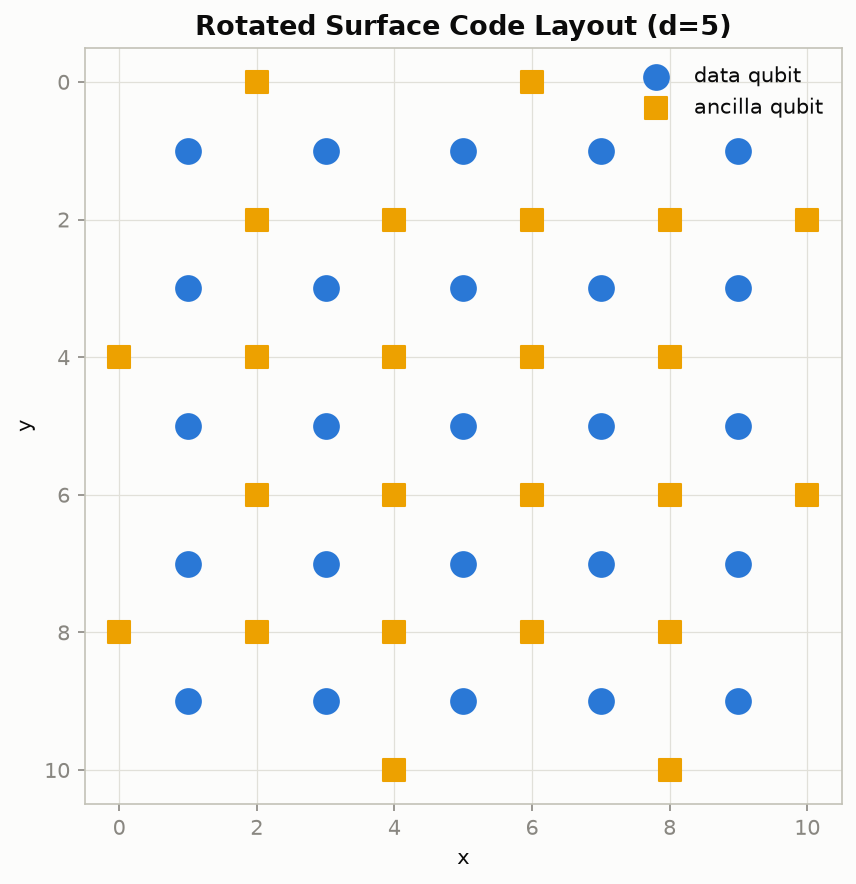
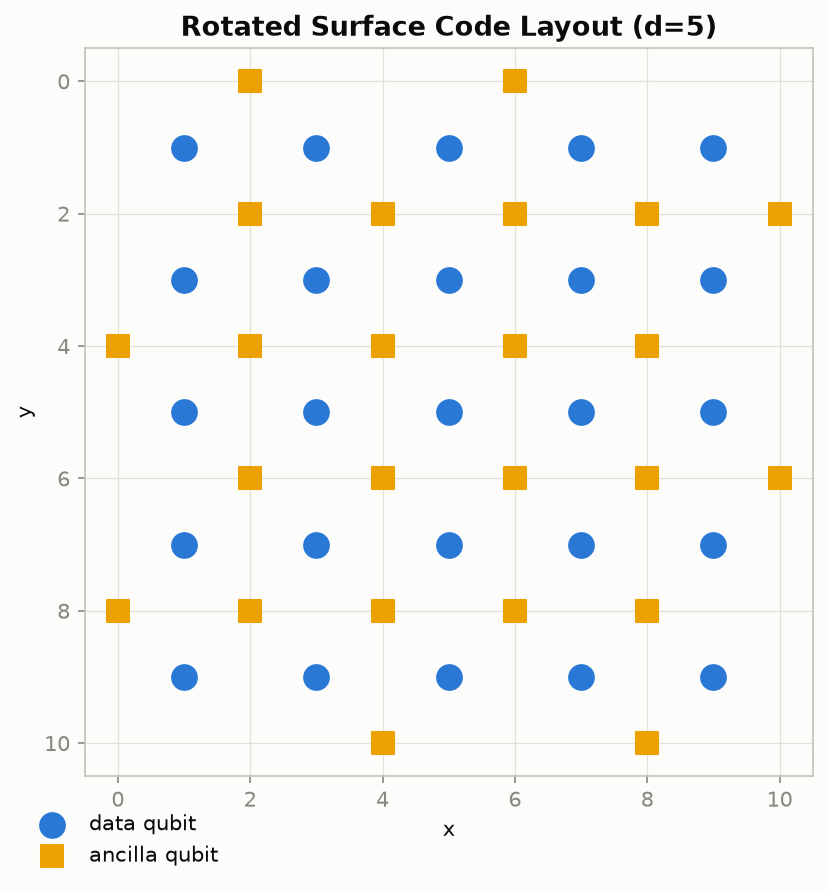
Fixed plot tick alignment, legend placement, and apparent threshold calculation. Adjusted figure sizes in README.

diff --git a/qecsim/viz_surface_code.py b/qecsim/viz_surface_code.py
@@ -1,7 +1,5 @@
-"""Visualizations for the rotated surface code threshold study.
-
-Uses a fixed colorblind-safe palette (blue -> aqua -> yellow) plus
-distinct marker shapes per series.
+"""
+Visualizations for the rotated surface code threshold study.
 """
 
 from __future__ import annotations
@@ -12,6 +10,9 @@ import matplotlib
 
 matplotlib.use("Agg")
 import matplotlib.pyplot as plt
+import math
+
+from matplotlib.ticker import FixedLocator, FuncFormatter, LogLocator, NullFormatter, NullLocator
 
 from qecsim import surface_code
 
@@ -26,11 +27,30 @@ _TEXT_SECONDARY = "#52514e"
 _TEXT_MUTED = "#898781"
 
 
+def _midpoint_subs(major_subs: tuple[float, ...]) -> tuple[float, ...]:
+    """Geometric midpoint between each pair of consecutive major sub-ticks,
+    used as minor tick locations
+    """
+    subs = list(major_subs) + [major_subs[0] * 10]
+    return tuple(math.sqrt(a * b) for a, b in zip(subs, subs[1:]))
+
+
+def _log_tick_label(x: float, _pos=None) -> str:
+    if x <= 0:
+        return ""
+    exponent = math.floor(math.log10(x) + 1e-9)
+    mantissa = round(x / 10**exponent, 1)
+    if abs(mantissa - round(mantissa)) < 1e-9:
+        mantissa_str = f"{round(mantissa):d}"
+    else:
+        mantissa_str = f"{mantissa:.1f}"
+    if mantissa_str == "1":
+        return f"$10^{{{exponent}}}$"
+    return f"${mantissa_str}\\times10^{{{exponent}}}$"
+
+
 def plot_threshold(results: list[dict], save_path: str) -> None:
-    """Plot the headline threshold figure: one line per code distance,
-    physical error rate on a log x-axis, per-round logical error rate on a
-    log y-axis. If the curves visibly cross, that marks the approximate
-    circuit-level threshold; annotated only when the data shows one cleanly.
+    """Plot the headline threshold figure
     """
     by_distance: dict[int, list[dict]] = defaultdict(list)
     for row in results:
@@ -66,6 +86,16 @@ def plot_threshold(results: list[dict], save_path: str) -> None:
 
     ax.set_xscale("log")
     ax.set_yscale("log")
+
+    # Tick marks sit on the actual sampled p values (a log-scale FixedLocator)
+    # so they line up with the data, rather than an abstract evenly-spaced
+    # scheme that wouldn't match where the markers actually are.
+    y_major_subs = (1.0,)
+    ax.xaxis.set_major_locator(FixedLocator(sorted({r["p"] for r in results})))
+    ax.xaxis.set_major_formatter(FuncFormatter(_log_tick_label))
+    ax.xaxis.set_minor_locator(NullLocator())
+    ax.yaxis.set_minor_locator(LogLocator(base=10.0, subs=_midpoint_subs(y_major_subs)))
+    ax.yaxis.set_minor_formatter(NullFormatter())
     ax.set_xlabel("Physical error rate, $p$", color=_TEXT_PRIMARY, fontsize=11)
     ax.set_ylabel(
         "Logical error rate per round", color=_TEXT_PRIMARY, fontsize=11
@@ -79,12 +109,16 @@ def plot_threshold(results: list[dict], save_path: str) -> None:
     )
 
     ax.grid(True, which="major", color=_GRIDLINE, linewidth=0.8, zorder=0)
-    ax.grid(True, which="minor", color=_GRIDLINE, linewidth=0.4, alpha=0.6, zorder=0)
+    ax.grid(True, which="minor", color=_GRIDLINE, linewidth=0.4, zorder=0)
     for spine in ("top", "right"):
         ax.spines[spine].set_visible(False)
     for spine in ("left", "bottom"):
         ax.spines[spine].set_color(_AXIS)
     ax.tick_params(colors=_TEXT_MUTED, labelsize=9)
+    # The sampled p values bunch up at the high end (e.g. 0.013/0.016/0.02),
+    # so horizontal labels there collide; angle them to keep every gridline
+    # labeled and readable.
+    plt.setp(ax.get_xticklabels(), rotation=40, ha="right", rotation_mode="anchor")
 
     legend = ax.legend(
         frameon=False, loc="lower right", fontsize=10, labelcolor=_TEXT_PRIMARY
@@ -95,14 +129,16 @@ def plot_threshold(results: list[dict], save_path: str) -> None:
     crossing_p = _find_crossing(by_distance, distances)
     if crossing_p is not None:
         ax.axvline(crossing_p, color=_TEXT_MUTED, linewidth=1, linestyle="--", zorder=1)
+        y_lo, y_hi = ax.get_ylim()
+        y_mid = math.sqrt(y_lo * y_hi)  # geometric mean: visual midpoint on a log axis
         ax.text(
             crossing_p,
-            ax.get_ylim()[1],
-            "  apparent threshold",
+            y_mid,
+            "apparent threshold  ",
             color=_TEXT_SECONDARY,
             fontsize=8.5,
             rotation=90,
-            va="top",
+            va="center",
             ha="left",
         )
 
@@ -125,17 +161,18 @@ def _find_crossing(by_distance: dict[int, list[dict]], distances: list[int]):
     if len(common_ps) < 2:
         return None
 
-    diffs = [rows_max[p] - rows_min[p] for p in common_ps]
+    # On a log-log plot, matplotlib draws straight lines between points in
+    # (log p, log rate) space, not (p, rate) space -- so the crossing must
+    # be found on log(rate), or the marked point lands visibly off from
+    # where the rendered lines actually intersect.
+    diffs = [math.log(rows_max[p]) - math.log(rows_min[p]) for p in common_ps]
     for i in range(len(diffs) - 1):
         if diffs[i] == 0:
             return common_ps[i]
         if (diffs[i] < 0) != (diffs[i + 1] < 0):
-            # Interpolate in log-p space for a better estimate.
             p0, p1 = common_ps[i], common_ps[i + 1]
             f0, f1 = diffs[i], diffs[i + 1]
             frac = abs(f0) / (abs(f0) + abs(f1))
-            import math
-
             log_p = math.log(p0) + frac * (math.log(p1) - math.log(p0))
             return math.exp(log_p)
     return None
@@ -197,7 +234,7 @@ def plot_lattice(distance: int, save_path: str) -> None:
     ax.set_ylabel("y", color=_TEXT_PRIMARY)
     ax.set_aspect("equal")
     ax.invert_yaxis()
-    ax.legend(frameon=False, loc="upper right", labelcolor=_TEXT_PRIMARY)
+    ax.legend(frameon=False, loc="lower left", bbox_to_anchor=(-0.10, -0.15), labelcolor=_TEXT_PRIMARY)
     ax.grid(True, color=_GRIDLINE, linewidth=0.6, zorder=0)
     for spine in ax.spines.values():
         spine.set_color(_AXIS)

diff --git a/qecsim/viz_small_codes.py b/qecsim/viz_small_codes.py
@@ -1,14 +1,35 @@
-"""Visualization of logical vs. physical error rate for the small codes.
-
-Colors come from a fixed, colorblind-safe palette (slots assigned by
-series identity, not cycled); each series also gets a distinct marker
-shape, and the break-even y = x line is a recessive dashed gray reference.
 """
+Visualization of logical vs. physical error rate for the small codes.
+"""
+
+import math
 
 import matplotlib
 
 matplotlib.use("Agg")
 import matplotlib.pyplot as plt
+from matplotlib.ticker import FixedLocator, FuncFormatter, LogLocator, NullFormatter, NullLocator
+
+_MINOR_DECADE_SUB = math.sqrt(10)
+
+
+def _log_tick_label(x: float, _pos=None) -> str:
+    """Format a log-axis tick as mantissa x 10^exponent, rounding the
+    mantissa to 2 significant figures rather than showing raw
+    floating-point precision.
+    """
+    if x <= 0:
+        return ""
+    exponent = math.floor(math.log10(x) + 1e-9)
+    mantissa = round(x / 10**exponent, 1)
+    if abs(mantissa - round(mantissa)) < 1e-9:
+        mantissa_str = f"{round(mantissa):d}"
+    else:
+        mantissa_str = f"{mantissa:.1f}"
+    if mantissa_str == "1":
+        return f"$10^{{{exponent}}}$"
+    return f"${mantissa_str}\\times10^{{{exponent}}}$"
+
 
 # Fixed slot per series so the same code always gets the same color.
 _SERIES_STYLE = {
@@ -35,9 +56,6 @@ def plot_logical_vs_physical(results_by_code: dict, save_path: str) -> None:
     for code_name, results in results_by_code.items():
         results = sorted(results, key=lambda r: r["p"])
         ps = [r["p"] for r in results]
-        # Log scale can't show a rate of exactly 0 (no logical errors observed).
-        # Floor such points at 1/(2*num_trials) and mark them hollow as an
-        # upper-bound placeholder rather than a direct measurement.
         rates = []
         is_zero_count = []
         for r in results:
@@ -51,8 +69,7 @@ def plot_logical_vs_physical(results_by_code: dict, save_path: str) -> None:
         errs = [r["std_error"] for r in results]
         all_ps.extend(ps)
 
-        style = _SERIES_STYLE.get(code_name, {"color": "#4a3aa7", "marker": "x",
-                                                "label": code_name})
+        style = _SERIES_STYLE.get(code_name, {"color": "#4a3aa7", "marker": "x", "label": code_name})
         ax.errorbar(
             ps, rates, yerr=errs,
             color=style["color"], marker=style["marker"], markersize=7,
@@ -80,8 +97,16 @@ def plot_logical_vs_physical(results_by_code: dict, save_path: str) -> None:
     ax.set_title("Logical vs. physical error rate: small stabilizer codes",
                  color=_PRIMARY_INK, fontsize=13, fontweight="bold")
 
-    ax.grid(True, which="both", linestyle="-", linewidth=0.5, color="#e1e0d9",
-             alpha=0.7)
+    # Tick marks sit on the actual sampled p values (a log-scale FixedLocator)
+    # so they line up with the data, rather than an abstract evenly-spaced
+    # scheme that wouldn't match where the markers actually are.
+    ax.xaxis.set_major_locator(FixedLocator(sorted(set(all_ps))))
+    ax.xaxis.set_major_formatter(FuncFormatter(_log_tick_label))
+    ax.xaxis.set_minor_locator(NullLocator())
+    ax.yaxis.set_minor_locator(LogLocator(base=10.0, subs=(_MINOR_DECADE_SUB,)))
+    ax.yaxis.set_minor_formatter(NullFormatter())
+    ax.grid(True, which="major", linestyle="-", linewidth=0.8, color="#e1e0d9")
+    ax.grid(True, which="minor", linestyle="-", linewidth=0.4, color="#e1e0d9")
     ax.tick_params(colors=_MUTED_INK)
     for spine in ax.spines.values():
         spine.set_color("#c3c2b7")

diff --git a/README.md b/README.md
@@ -43,15 +43,15 @@ pytest tests/ -v
 
 **Small codes - logical vs. physical error rate** (depolarizing noise, 20,000 trials/point):
 
-![Small codes logical vs physical error rate](figures/small_codes_logical_vs_physical.png)
+<img src="figures/small_codes_logical_vs_physical.png" alt="Small codes logical vs physical error rate" width="700">
 
 **Rotated surface code - threshold plot** (circuit-level depolarizing noise, Stim + PyMatching MWPM, 10,000 shots/point):
 
-![Surface code threshold plot](figures/surface_code_threshold.png)
+<img src="figures/surface_code_threshold.png" alt="Surface code threshold plot" width="700">
 
 **Rotated surface code lattice** (distance 5):
 
-![Surface code lattice](figures/surface_code_lattice_d5.png)
+<img src="figures/surface_code_lattice_d5.png" alt="Surface code lattice" width="700" height="700">
 
 ## Project layout
 